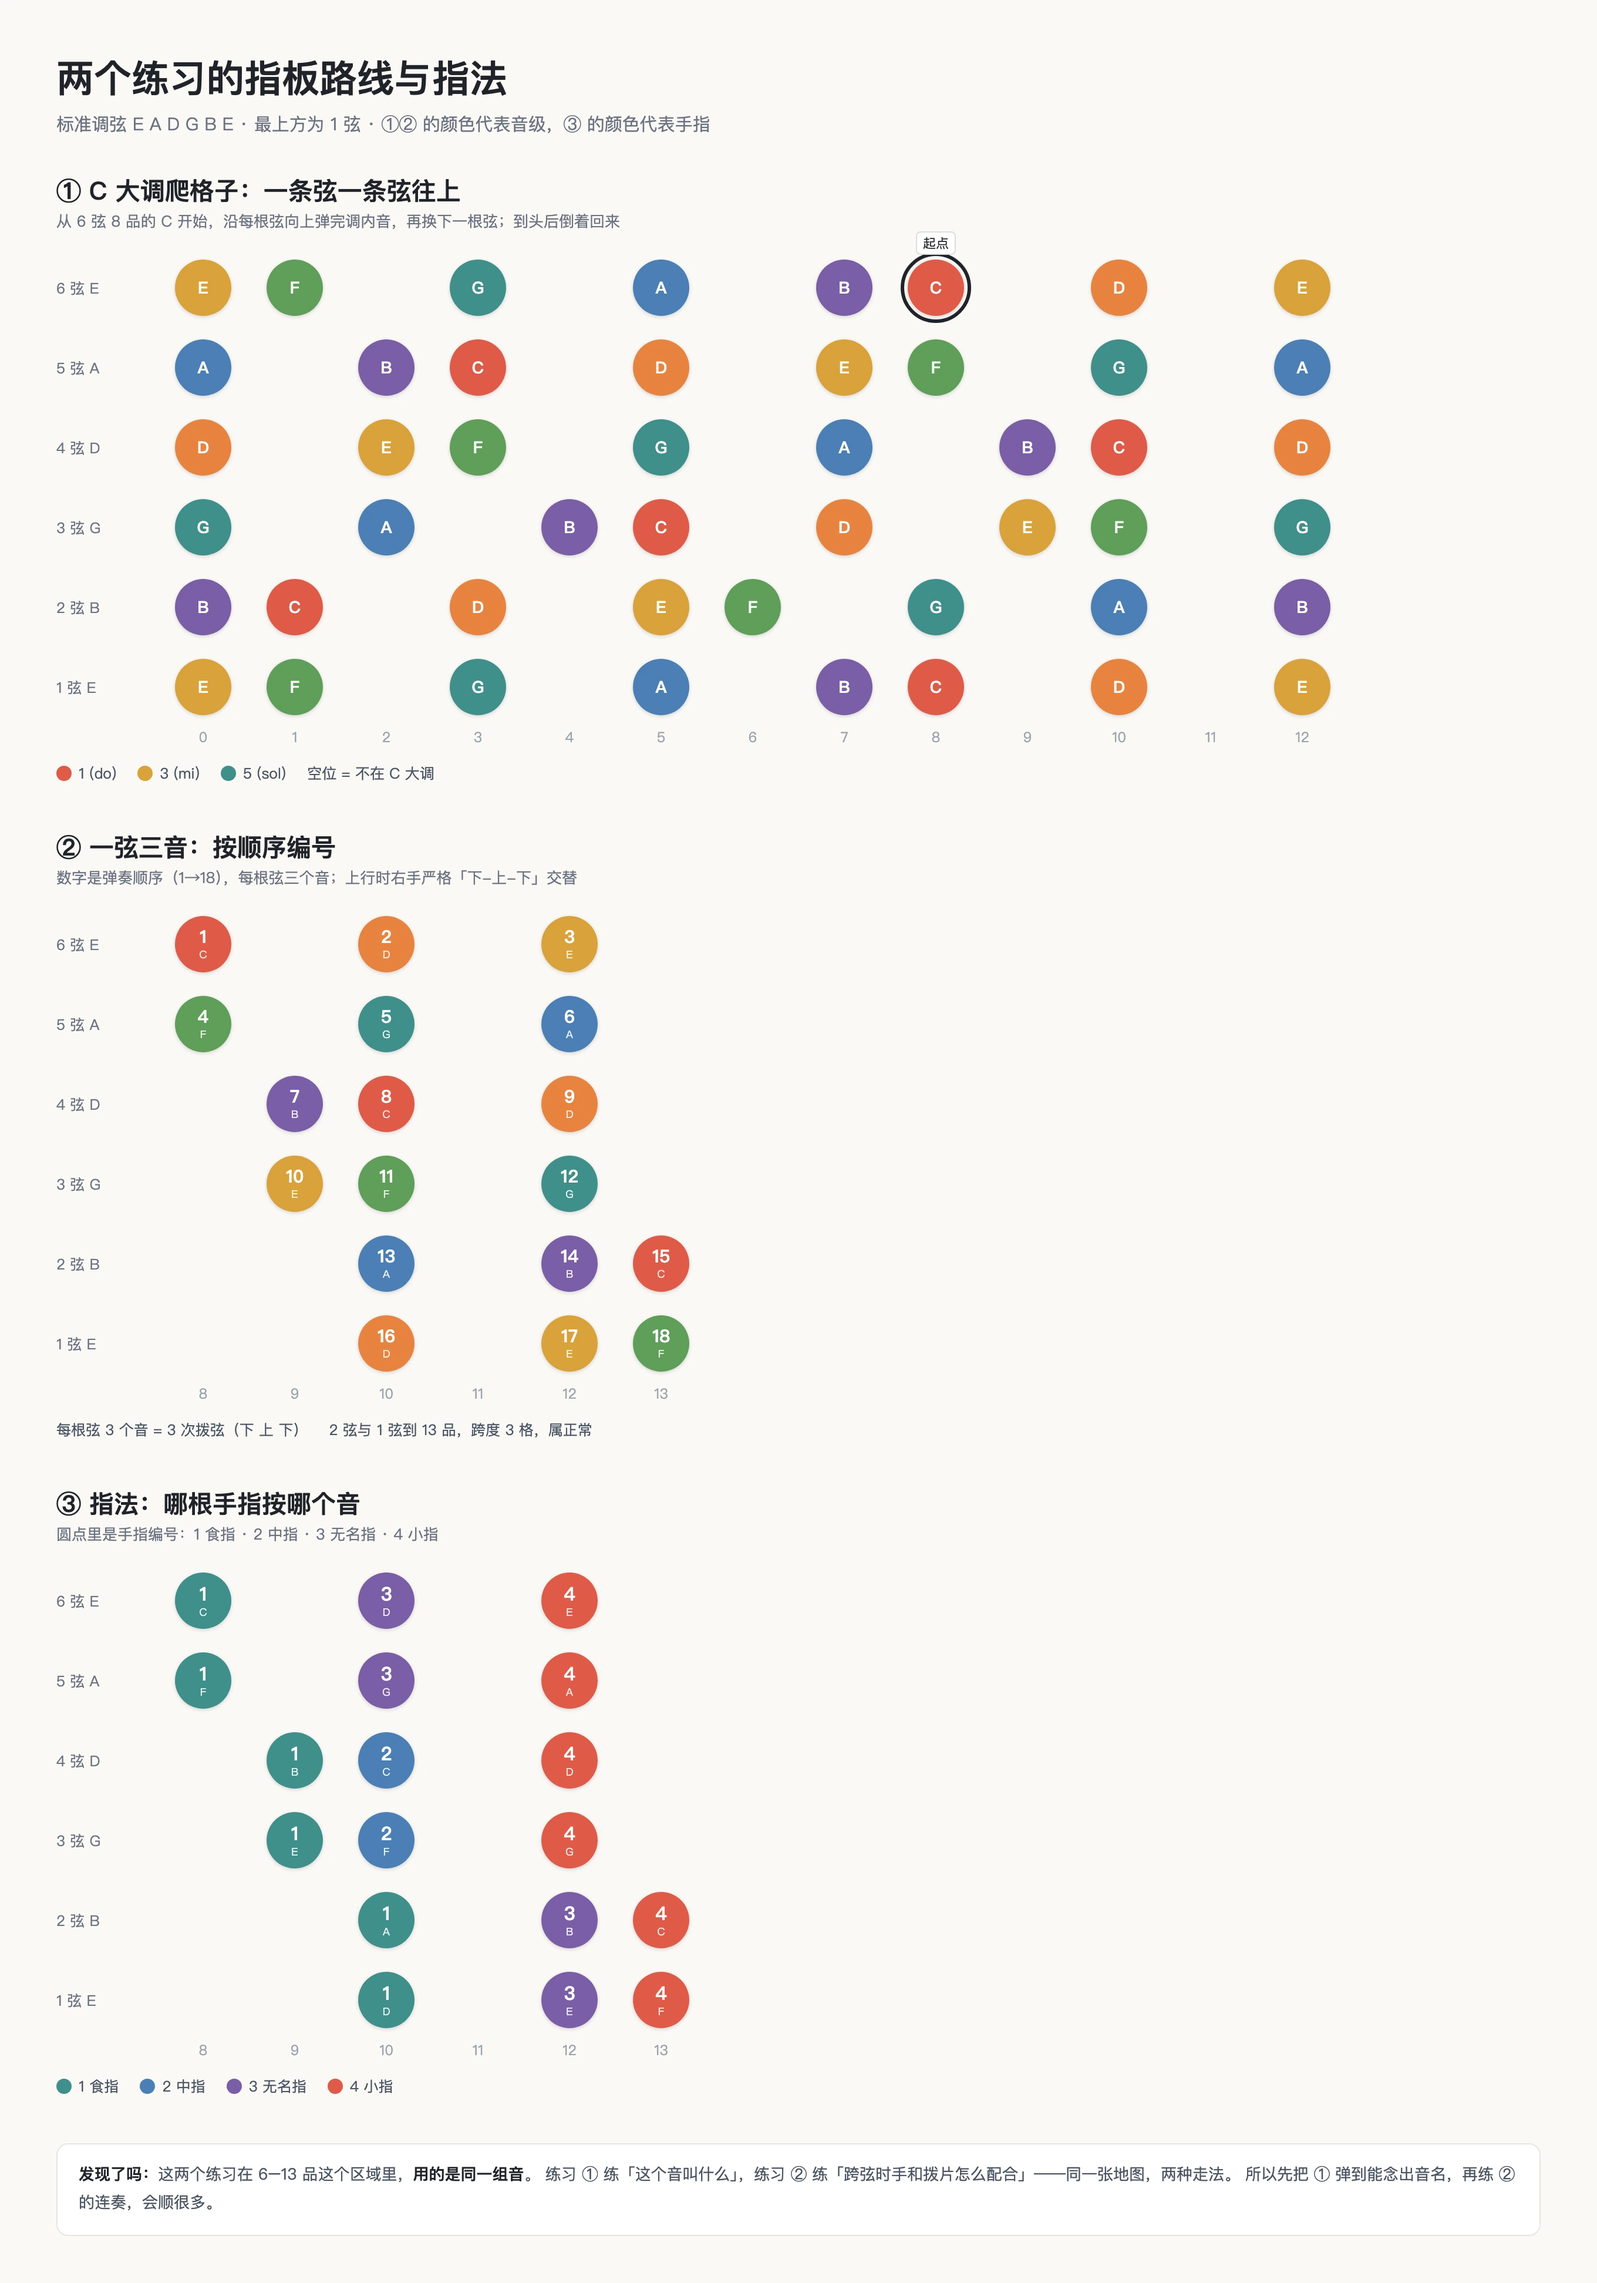
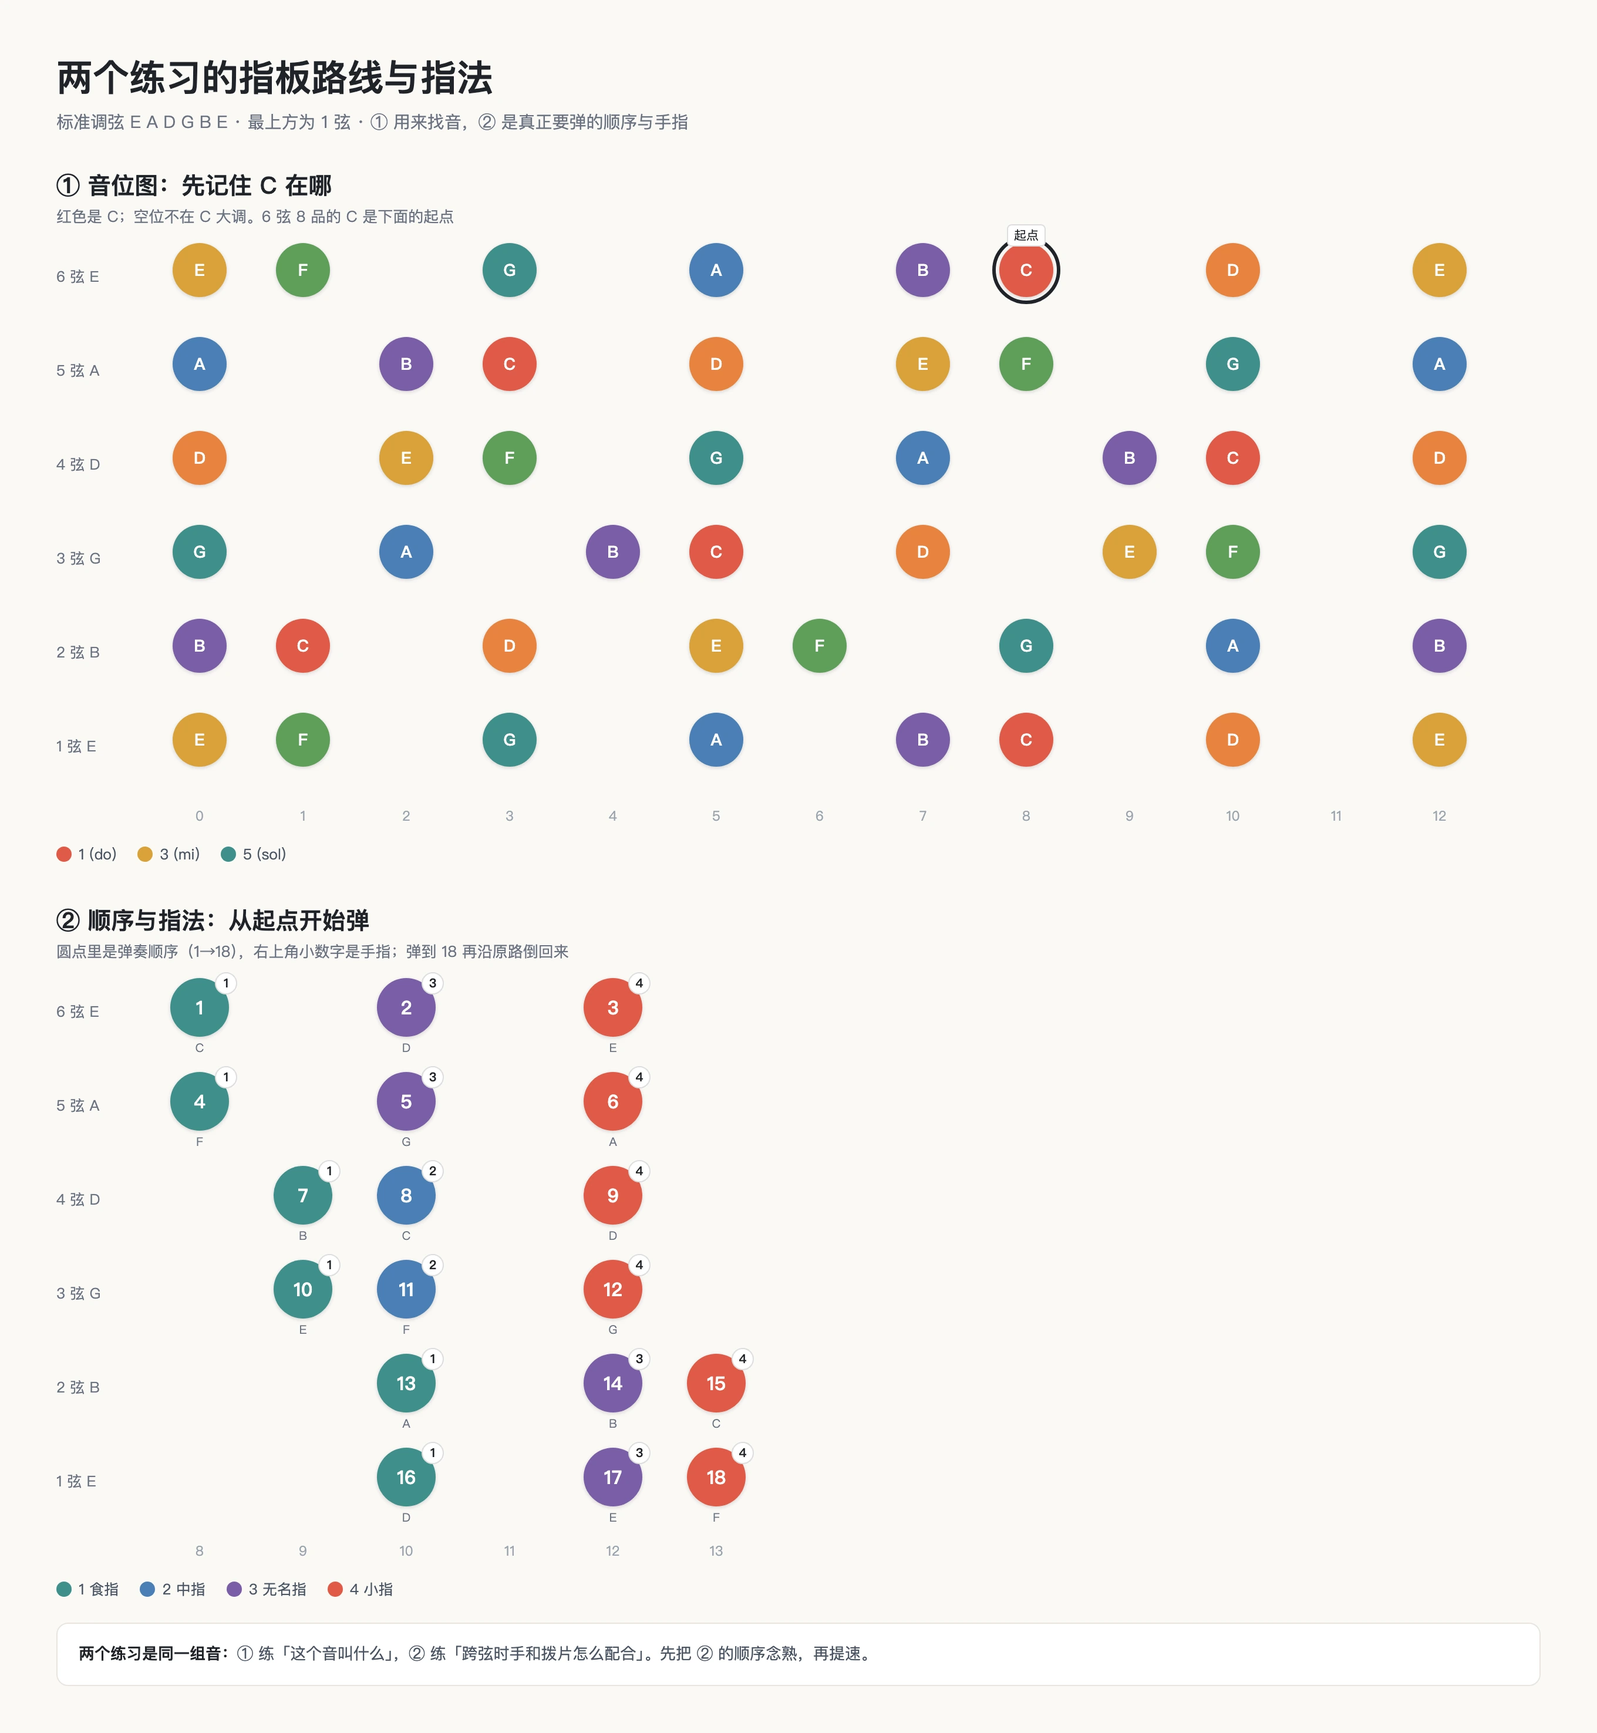
总图合并为音位图+顺序指法两栏，去掉重复面板

diff --git a/content/music/practice-plan.md b/content/music/practice-plan.md
@@ -26,7 +26,7 @@ date: 2026-11-18
 
 ![[practice-plan/practice-flow.webp|两个练习的指板路线]]
 
-上图 ① 是爬格子的路线：从 6 弦 8 品的 C 出发，沿每根弦把调内音弹完再换弦。② 是一弦三音，同一片区域，但标了弹奏顺序（1→18），每根弦正好三个音。③ 是**指法**——哪个音用哪根手指按。
+上图 ① 是 C 大调的音位图，用来找音——先记住 C 的位置，其它音都靠它推。② 是**真正要弹的顺序**：圆点里是 1→18 的弹奏顺序，右上角小数字是手指，颜色也按手指区分。
 
 **一个值得注意的巧合**：这两个练习在 6–13 品用的是**同一组音**。区别只在练什么——① 练「这个音叫什么」，② 练「跨弦时手和拨片怎么配合」。同一张地图，两种走法。
 
